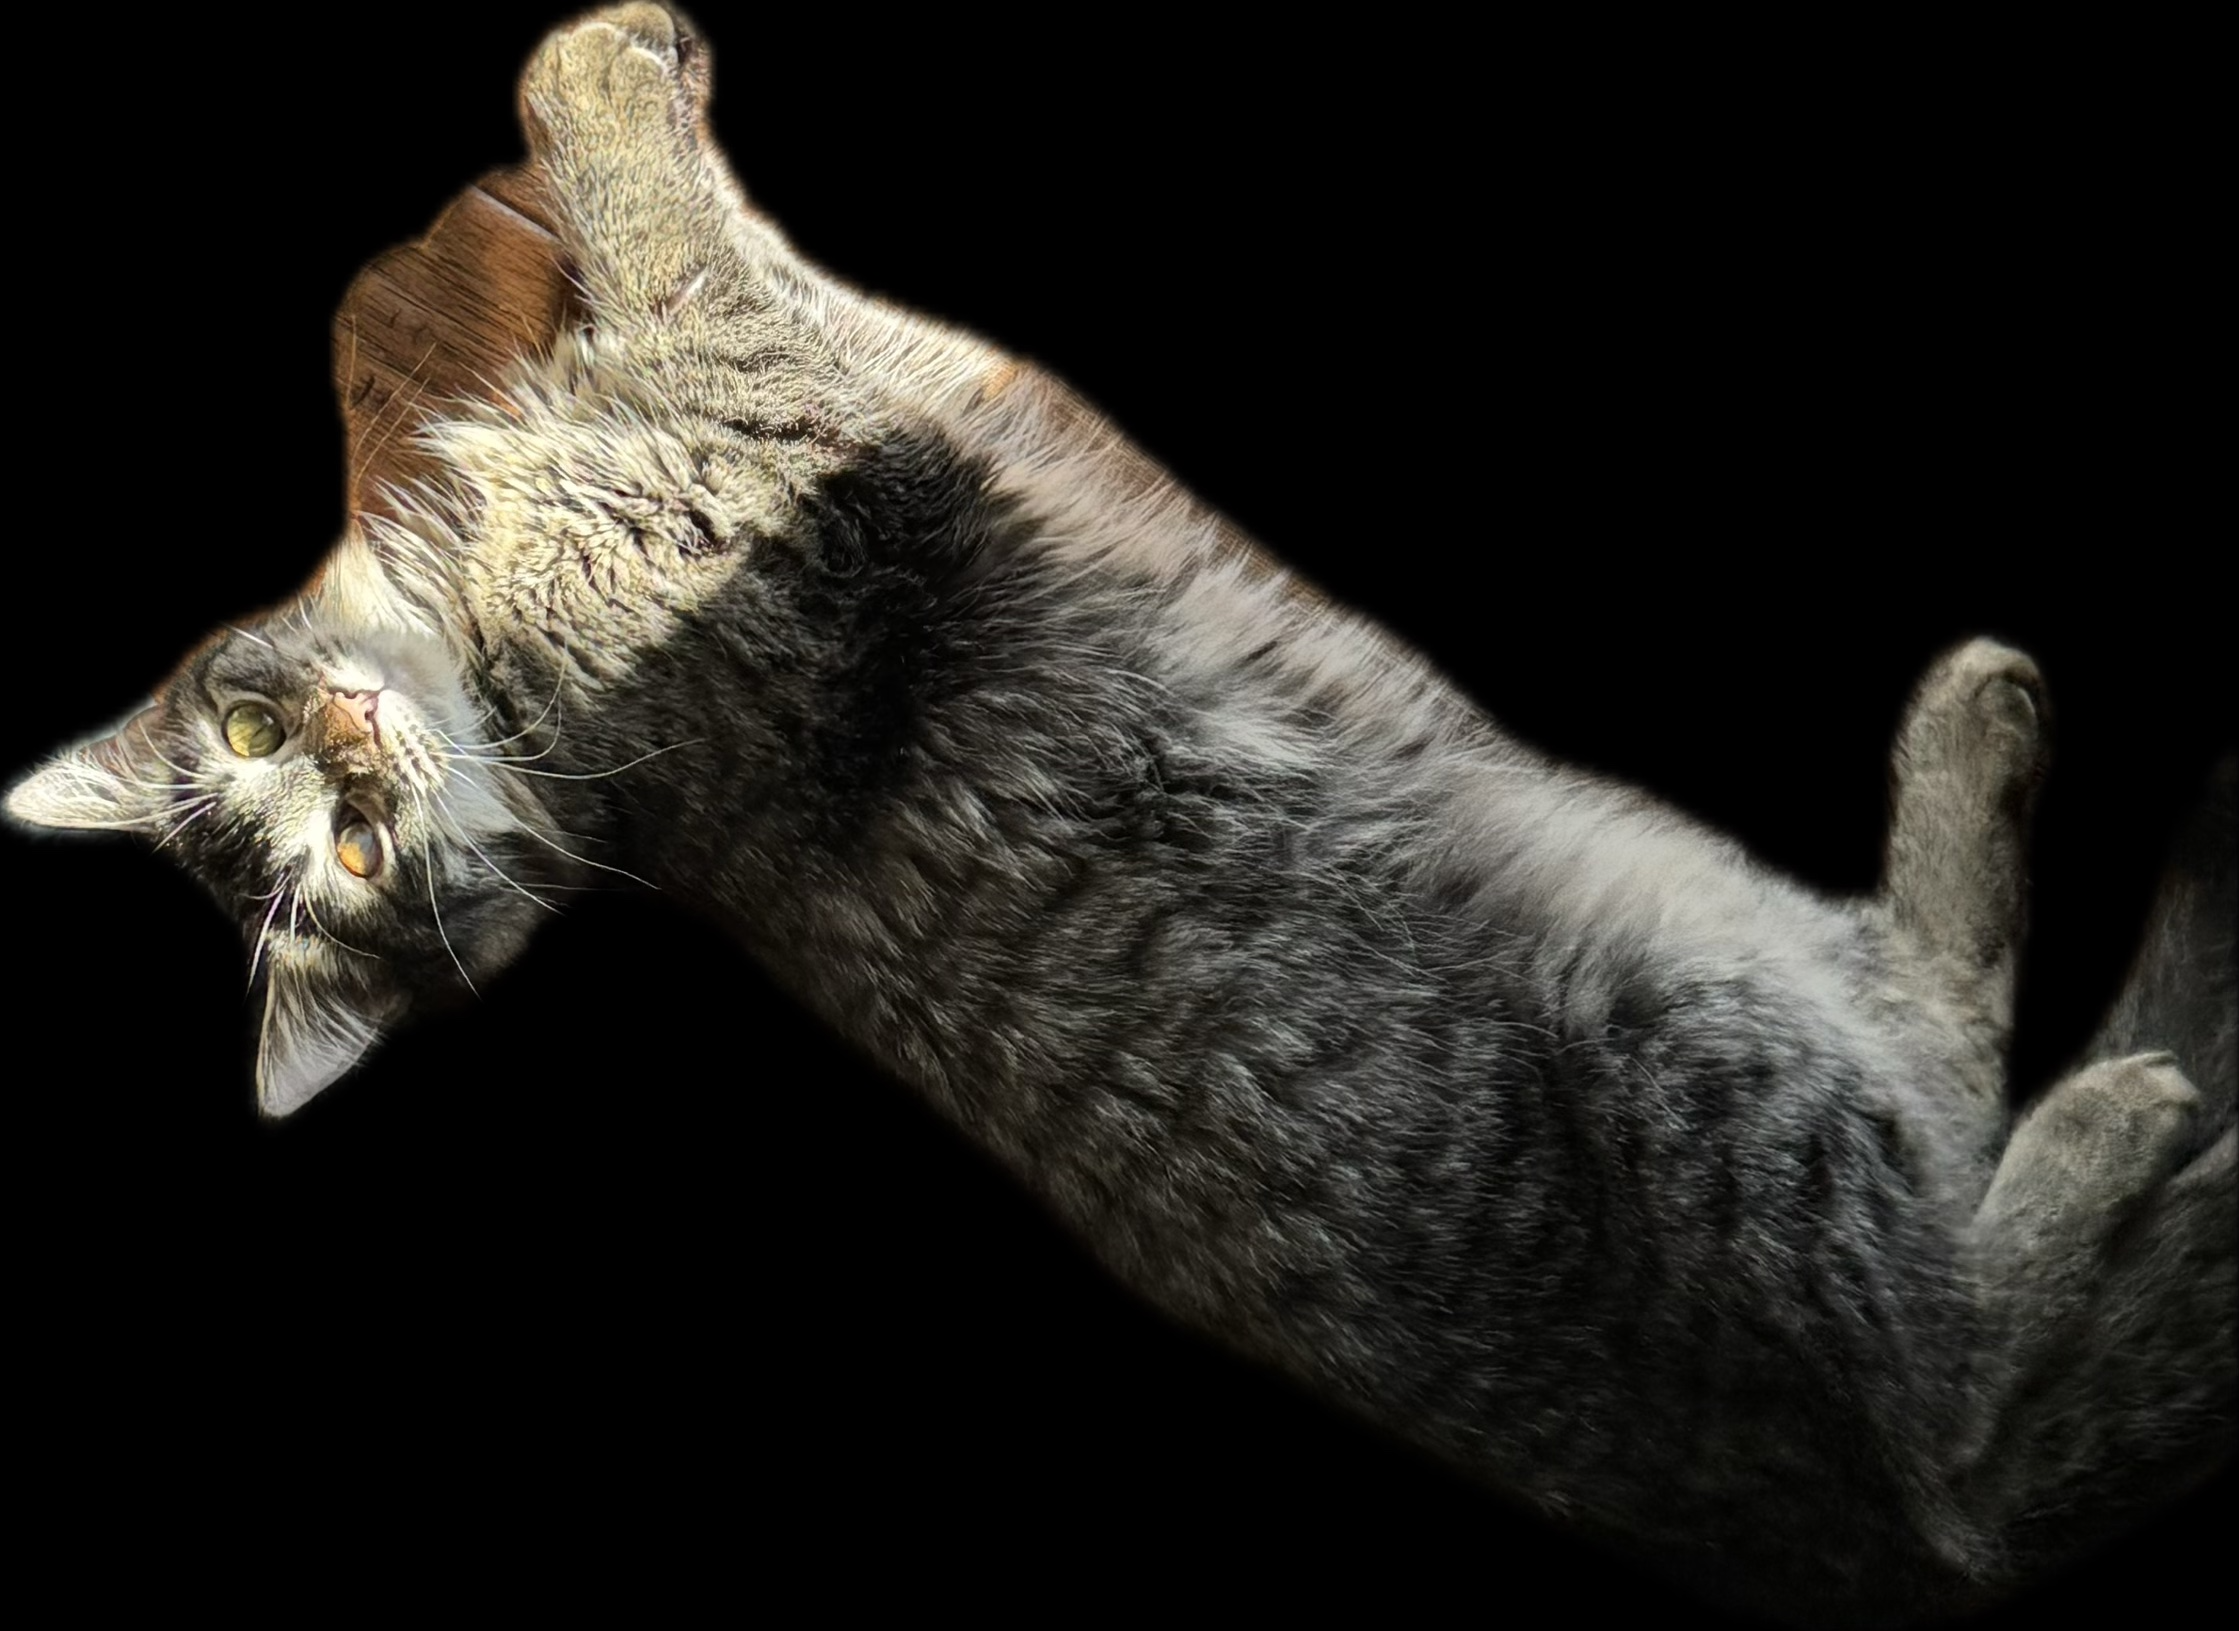
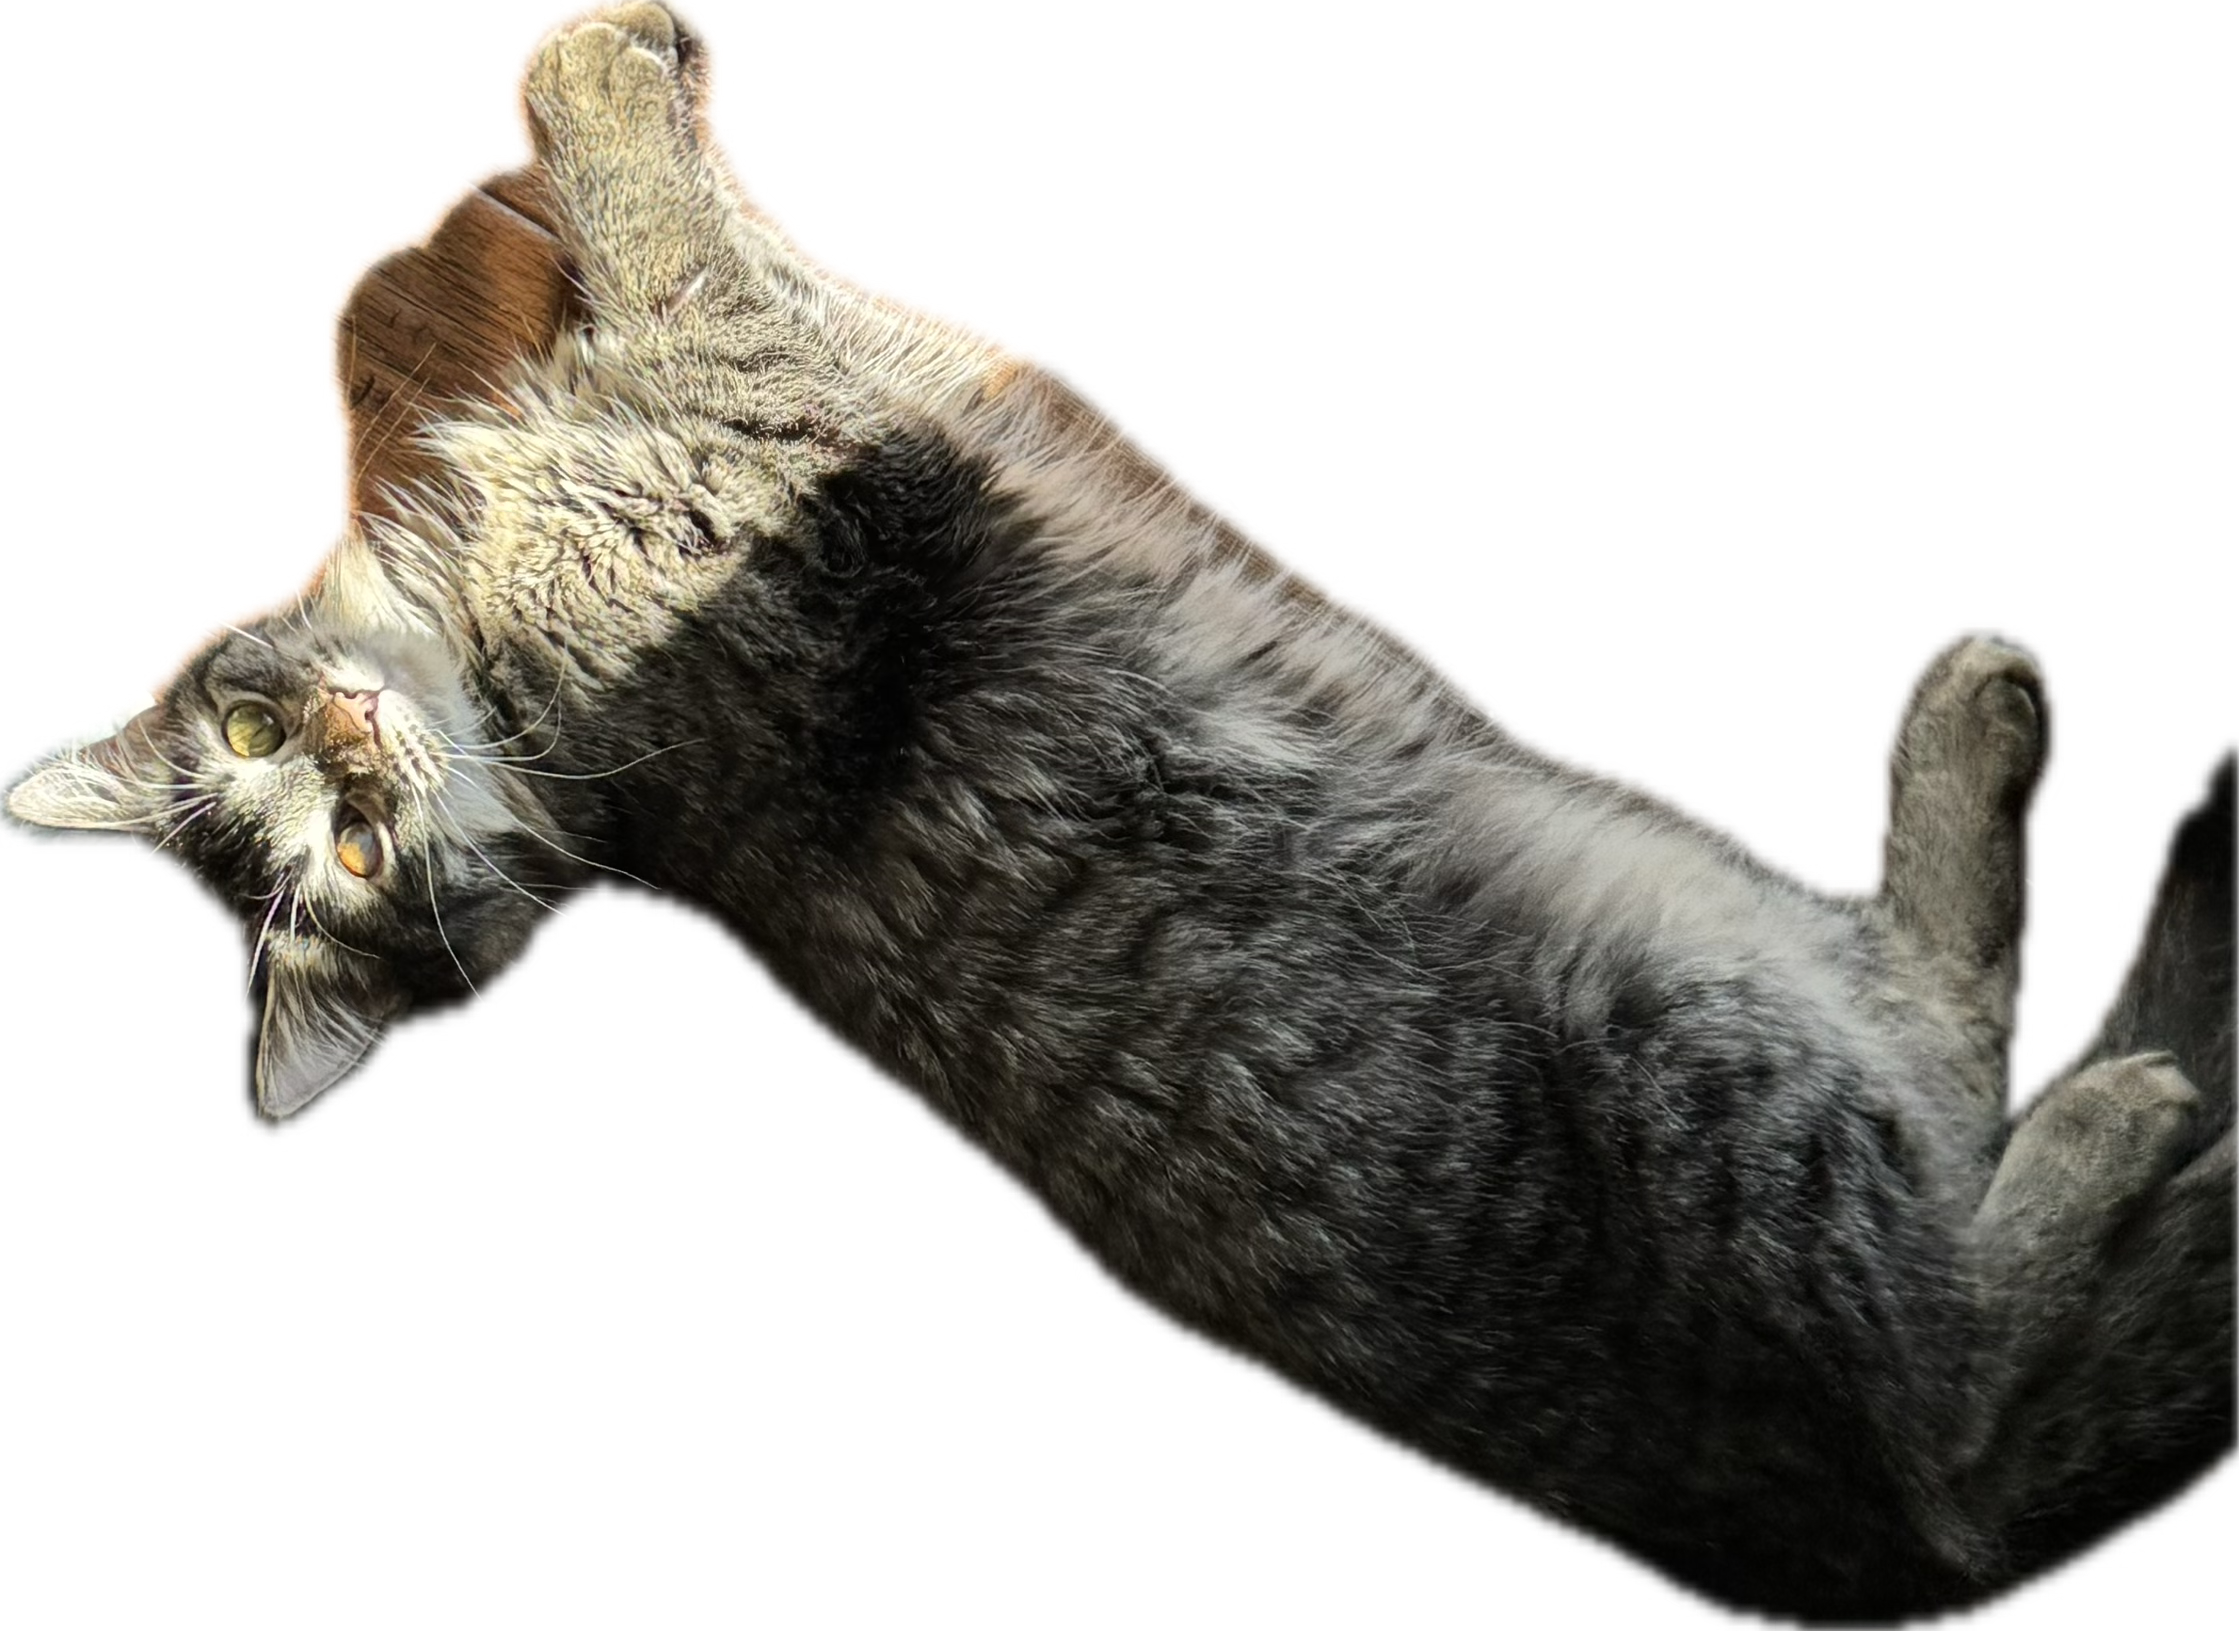
Update KittyCal

diff --git a/home.py b/home.py
@@ -1,41 +1,84 @@
 from tkinter import *
+from tkinter import ttk
 
-class HomeFrame(Frame):    
+class HomeFrame(ttk.Frame):    
 
     def __init__(self, master=None):
-        super().__init__(master, bg="#99B898")
+        super().__init__(master)
         self.master = master
         self.create_widgets()
 
     def create_widgets(self):
-        self.label_header = Label(self, text="Junie Birum", font="Verdana 22 bold",
-            fg="#000",
-            bg="#99B898",
-            pady = 60,
-            padx = 100)
-        self.label_header.grid(row=0, column=0, columnspan=2)
+        # Main container with padding
+        main_container = ttk.Frame(self)
+        main_container.pack(fill=BOTH, expand=True, padx=40, pady=40)
         
-
-        self.total_calories_label = Label(self, text=f"{self.master.get_total_calories()} Total Calories Today", font="Verdana 26 bold",
-            fg="#000",
-            bg="#99B898",
-            pady = 20,
-            padx = 100)
-        self.total_calories_label.grid(row=1, column=0, columnspan=2)
-
-        self.j1_image = PhotoImage(file="j1.png")
+        # Header section
+        header_frame = ttk.Frame(main_container)
+        header_frame.pack(fill=X, pady=(0, 30))
         
-        self.wetFoodButton = Button(self, text="Wet Food", image=self.j1_image, background = "#C06C84",
-          command=lambda: self.master.add_to_cart("wet_quantity", self.master.wet_default_quantity), height=5, width=20, font = "Arial 13 bold")
-        self.wetFoodButton.grid(row=2, column=0, padx=15, pady=15)
-
-        self.dryFoodButton = Button(self, text="Dry Food", background = "#C06C84",
-          command=lambda: self.master.add_to_cart("dry_quantity", self.master.dry_default_quantity), height=5, width=20, font = "Arial 13 bold")
-        self.dryFoodButton.grid(row=2, column=1, padx=5, pady=5)
-
-        self.checkoutButton = Button(self, text="Checkout", background = "#C06C84",
-          command=self.master.checkout_cart, height=5, width=20, font = "Arial 13 bold")
-        self.checkoutButton.grid(row=3, column=12, columnspan=6, padx=5, pady=5)
+        self.label_header = ttk.Label(header_frame, text="Junie Birum", style='Header.TLabel')
+        self.label_header.pack(side=LEFT, padx=(0, 20))
+        
+        # Separator
+        separator = ttk.Separator(header_frame, orient=HORIZONTAL)
+        separator.pack(side=LEFT, fill=X, expand=True)
+        
+        # Calories display card
+        calories_frame = ttk.Frame(main_container, style='Card.TFrame')
+        calories_frame.pack(fill=X, pady=(0, 40))
+        
+        self.total_calories_label = ttk.Label(calories_frame, 
+            text=f"{self.master.get_total_calories()} Total Calories Today", 
+            style='Subheader.TLabel')
+        self.total_calories_label.pack(pady=20, padx=20)
+        
+        # Food options section
+        options_frame = ttk.Frame(main_container)
+        options_frame.pack(fill=BOTH, expand=True, pady=(0, 30))
+        
+        # Wet Food Button
+        self.wetFoodButton = ttk.Button(options_frame, text="🍖 Wet Food", 
+            command=lambda: self.master.add_to_cart("wet_quantity", self.master.wet_default_quantity),
+            style='Accent.TButton')
+        self.wetFoodButton.pack(fill=X, pady=10)
+        
+        # Dry Food Button
+        self.dryFoodButton = ttk.Button(options_frame, text="🌾 Dry Food",
+            command=lambda: self.master.add_to_cart("dry_quantity", self.master.dry_default_quantity),
+            style='Accent.TButton')
+        self.dryFoodButton.pack(fill=X, pady=10)
+        
+        # Additional items section
+        extras_label = ttk.Label(options_frame, text="Extras", style='Subheader.TLabel')
+        extras_label.pack(pady=(20, 10))
+        
+        extras_frame = ttk.Frame(options_frame)
+        extras_frame.pack(fill=X, pady=(0, 20))
+        
+        # Minnow, Egg, Giblet buttons
+        for text, item in [("🐟 Minnow", "minnow_quantity"), ("🥚 Egg", "egg_quantity"), ("🦴 Giblet", "giblet_quantity")]:
+            btn = ttk.Button(extras_frame, text=text,
+                command=lambda i=item: self.add_extra_item(i),
+                style='Primary.TButton')
+            btn.pack(fill=X, pady=5)
+        
+        # Checkout button - footer
+        footer_frame = ttk.Frame(main_container)
+        footer_frame.pack(fill=X, pady=(20, 0))
+        
+        self.checkoutButton = ttk.Button(footer_frame, text="🛒 Checkout",
+            command=self.master.checkout_cart, style='Accent.TButton')
+        self.checkoutButton.pack(fill=X)
+    
+    def add_extra_item(self, item):
+        """Handle extra item additions"""
+        if item == "minnow_quantity":
+            self.master.add_to_cart(item, self.master.minnow_default_quantity)
+        elif item == "egg_quantity":
+            self.master.add_to_cart(item, self.master.egg_default_quantity)
+        elif item == "giblet_quantity":
+            self.master.add_to_cart(item, self.master.giblet_default_quantity)
 
 
     def update_total_calories_label(self):

diff --git a/cart.py b/cart.py
@@ -1,22 +1,68 @@
 from tkinter import *
+from tkinter import ttk
 
-class CartFrame(Frame):
+class CartFrame(ttk.Frame):
     def __init__(self, cart, master=None):
-        super().__init__(master, bg="#99B898")
+        super().__init__(master)
         self.master = master
         self.cart = cart
         self.create_widgets()
 
     def create_widgets(self):
-        self.cart_label = Label(self, text="Cart", font="Verdana 20 bold")
-        self.cart_label.pack(pady=10)
-
-        for item, quantity in self.cart.items():
-            item_label = Label(self, text=f"{item}: {quantity}", font="Verdana 16")
-            item_label.pack(pady=5)
-
-        self.confirm_button = Button(self, text="Confirm", command=self.confirm_cart)
-        self.confirm_button.pack(pady=10)
+        # Main container
+        main_container = ttk.Frame(self)
+        main_container.pack(fill=BOTH, expand=True, padx=40, pady=40)
+        
+        # Header
+        header = ttk.Label(main_container, text="🛒 Order Summary", style='Header.TLabel')
+        header.pack(pady=(0, 30))
+        
+        # Separator
+        sep1 = ttk.Separator(main_container, orient=HORIZONTAL)
+        sep1.pack(fill=X, pady=(0, 20))
+        
+        # Cart items
+        items_frame = ttk.Frame(main_container, style='Card.TFrame')
+        items_frame.pack(fill=BOTH, expand=True, pady=(0, 20))
+        
+        if not self.cart.items():
+            empty_label = ttk.Label(items_frame, text="Your cart is empty", style='Card.TLabel')
+            empty_label.pack(pady=20, padx=20)
+        else:
+            item_labels_frame = ttk.Frame(items_frame)
+            item_labels_frame.pack(fill=BOTH, expand=True, padx=20, pady=20)
+            
+            for item, quantity in self.cart.items():
+                item_row = ttk.Frame(item_labels_frame)
+                item_row.pack(fill=X, pady=8)
+                
+                item_name = ttk.Label(item_row, text=f"{item}", style='Card.TLabel')
+                item_name.pack(side=LEFT)
+                
+                item_qty = ttk.Label(item_row, text=f"× {quantity}", style='Subheader.TLabel')
+                item_qty.pack(side=RIGHT)
+        
+        # Separator
+        sep2 = ttk.Separator(main_container, orient=HORIZONTAL)
+        sep2.pack(fill=X, pady=(0, 20))
+        
+        # Confirm button
+        self.confirm_button = ttk.Button(main_container, text="✓ Confirm Order", 
+            command=self.confirm_cart, style='Accent.TButton')
+        self.confirm_button.pack(fill=X, pady=10)
+        
+        # Back button
+        self.back_button = ttk.Button(main_container, text="← Back", 
+            command=self.go_back, style='Primary.TButton')
+        self.back_button.pack(fill=X)
+        
+        # Status label
+        self.cart_label = ttk.Label(main_container, text="", style='Subheader.TLabel')
+        self.cart_label.pack(pady=20)
+    
+    def go_back(self):
+        """Return to home frame without saving"""
+        self.master.restore_home_frame()
 
     def confirm_cart(self):
         print("Checking out cart...")
@@ -34,6 +80,6 @@ class CartFrame(Frame):
                     self.master.calories_today["egg_cal"] += int(quantity * self.master.egg_cal_per_unit)
                 elif item == "giblet_quantity":
                     self.master.calories_today["giblet_cal"] += int(quantity * self.master.giblet_cal_per_unit)
-        self.cart_label.config(text="Saving...")
+        self.cart_label.config(text="✓ Saving order...")
         self.cart_label.update()
         self.master.save_calories_today()

diff --git a/app.py b/app.py
@@ -1,5 +1,6 @@
-#!/usr/bin/python	
+#!/usr/bin/python
 from tkinter import *
+from tkinter import ttk
 from datetime import date
 from cart import CartFrame
 from home import HomeFrame
@@ -33,10 +34,52 @@ class KittyCalApp(Tk):
         super().__init__()
         self.wm_title("KittyCal")
         self.attributes("-fullscreen", True)
+        self.configure(bg="#0f1419")
+        
+        # Configure custom ttk styles
+        self.configure_styles()
+        
         self.get_initial_calories()
         self.load_calories_today()
         self.home_frame = HomeFrame(self)
         self.home_frame.pack(fill=BOTH, expand=True)
+    
+    def configure_styles(self):
+        """Configure modern ttk styles with custom colors"""
+        style = ttk.Style()
+        style.theme_use('clam')
+        
+        # Define color palette
+        bg_dark = "#0f1419"
+        bg_light = "#1a2332"
+        accent_primary = "#ff6b9d"
+        accent_secondary = "#a78bfa"
+        text_primary = "#ffffff"
+        text_secondary = "#b0b9c1"
+        
+        # Configure frame background
+        style.configure('TFrame', background=bg_dark)
+        style.configure('Card.TFrame', background=bg_light, relief='solid', borderwidth=1)
+        
+        # Configure labels
+        style.configure('TLabel', background=bg_dark, foreground=text_primary, font=('Helvetica', 11))
+        style.configure('Header.TLabel', background=bg_dark, foreground=text_primary, font=('Helvetica', 28, 'bold'))
+        style.configure('Subheader.TLabel', background=bg_dark, foreground=text_secondary, font=('Helvetica', 14))
+        style.configure('Card.TLabel', background=bg_light, foreground=text_primary, font=('Helvetica', 11))
+        
+        # Configure buttons
+        style.configure('Primary.TButton', font=('Helvetica', 13, 'bold'), padding=15)
+        style.map('Primary.TButton',
+                  background=[('pressed', accent_secondary), ('active', accent_primary)],
+                  foreground=[('pressed', bg_dark), ('active', bg_dark)])
+        
+        style.configure('Accent.TButton', font=('Helvetica', 13, 'bold'), padding=15)
+        style.map('Accent.TButton',
+                  background=[('pressed', '#ff4d85'), ('active', accent_primary)],
+                  foreground=[('pressed', text_primary), ('active', text_primary)])
+        
+        # Configure separator
+        style.configure('TSeparator', background=bg_light)
 
     def get_initial_calories(self):
         print("Initializing calories for today...")